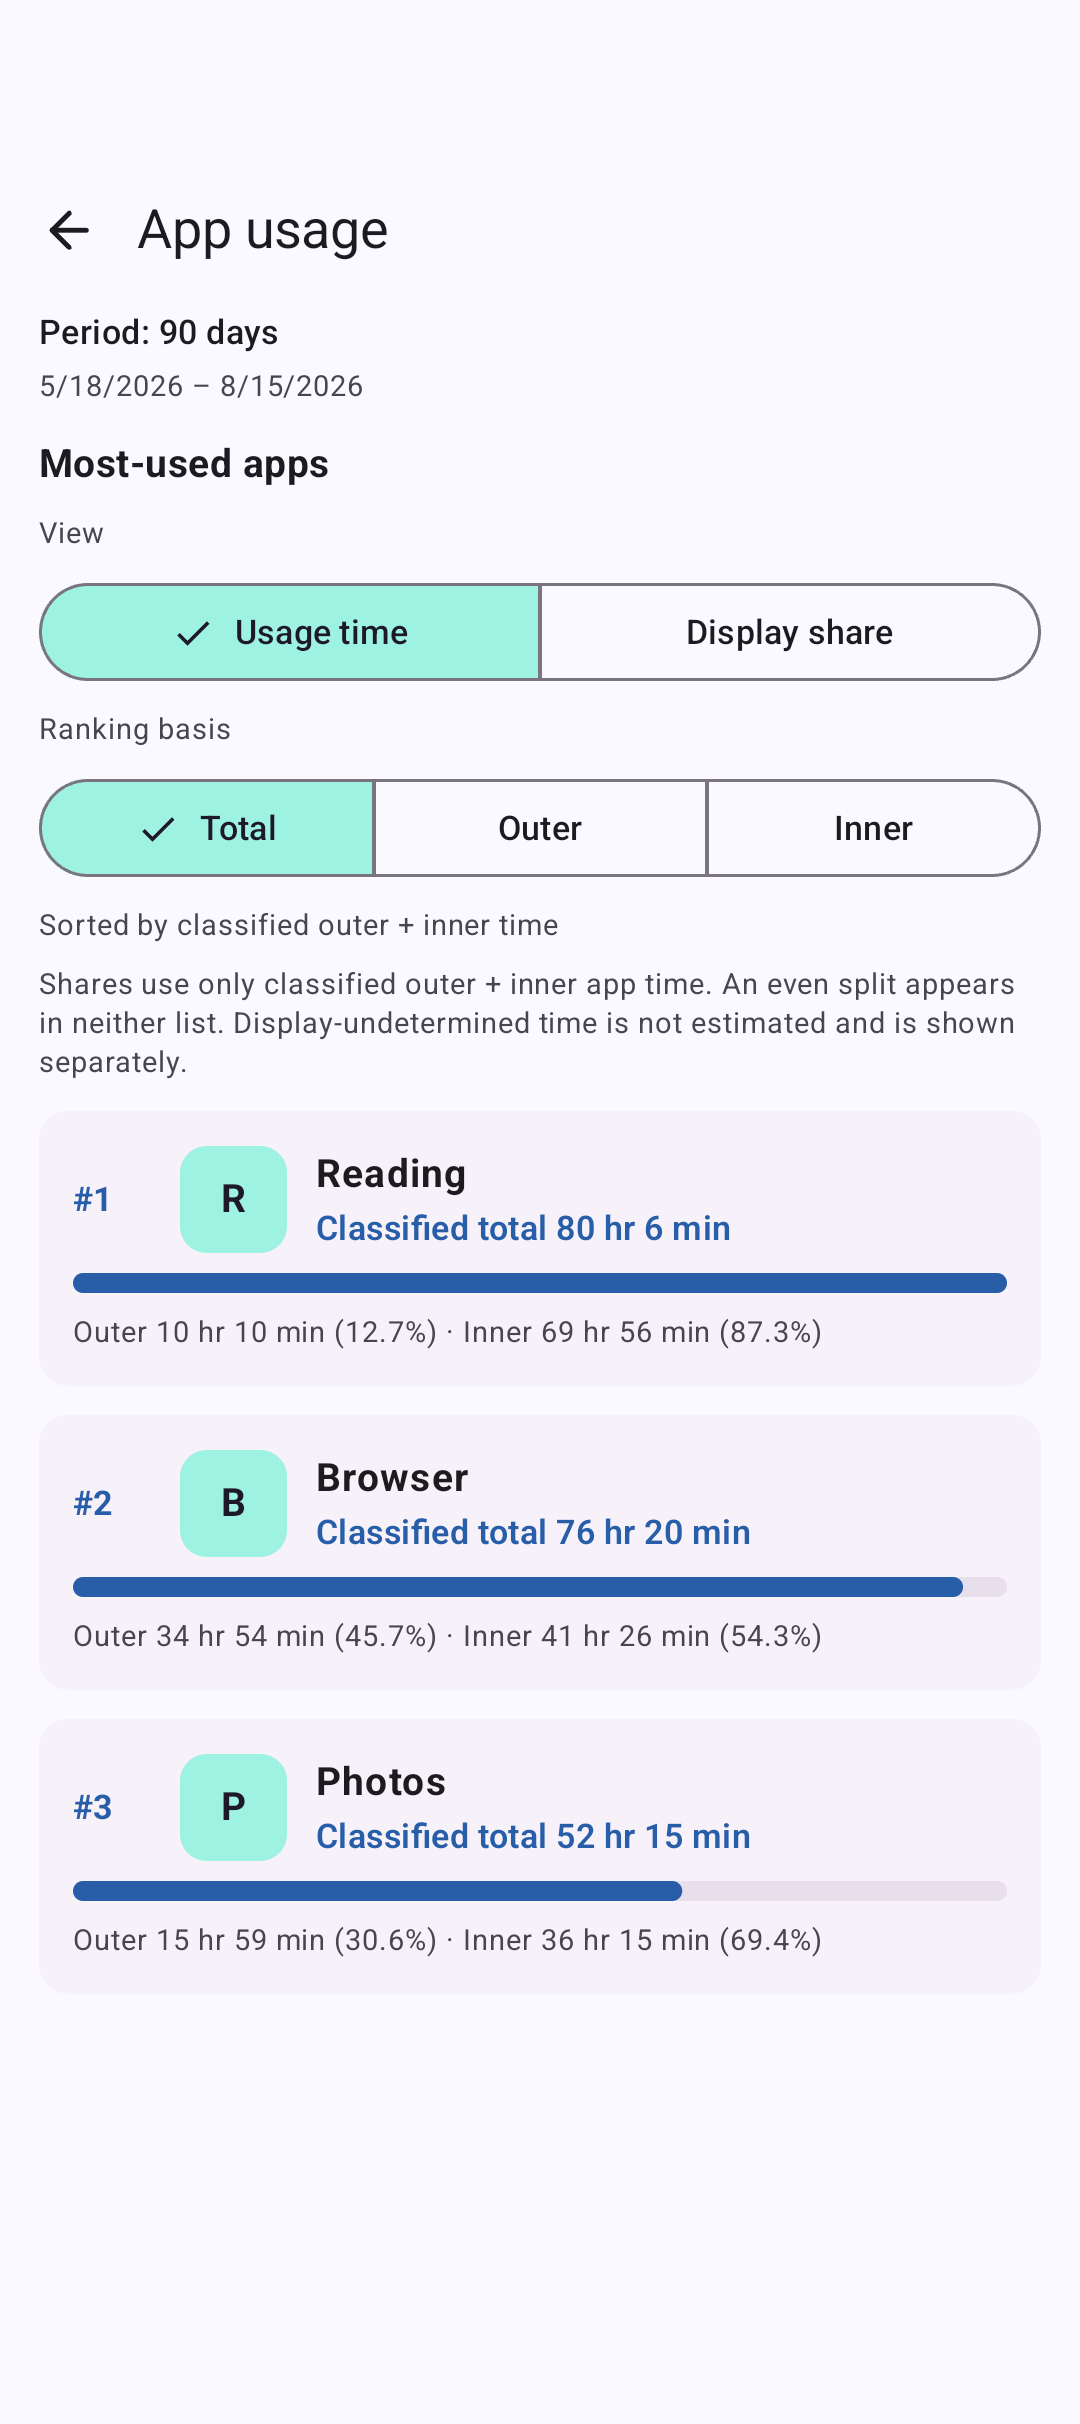
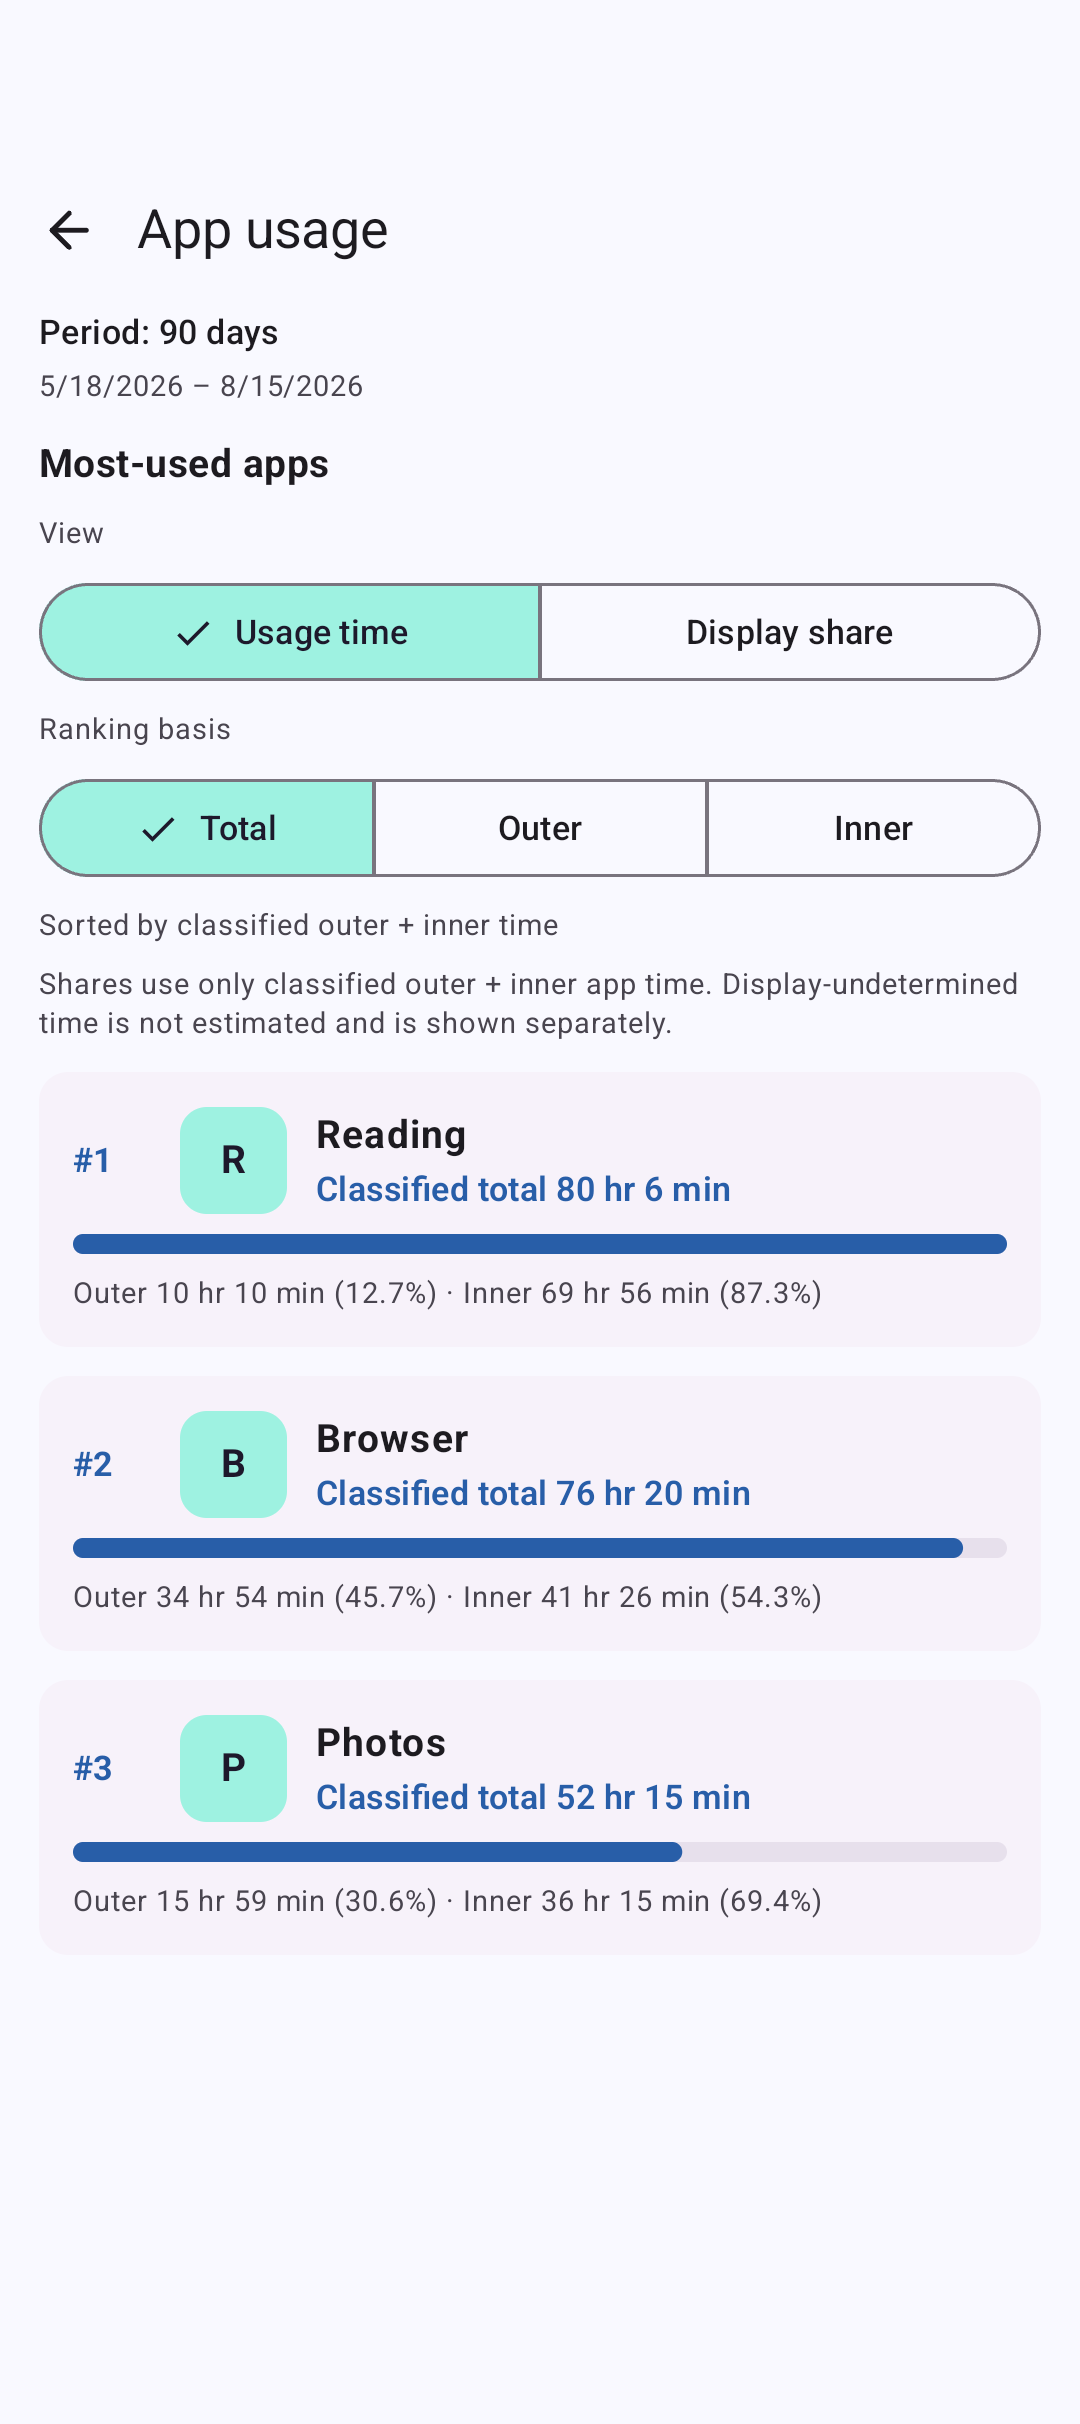
Refresh ranking screenshots after guidance correction

Changed region(s): [[0.0611, 0.4022, 0.9472, 0.8045], [0.6417, 0.4022, 0.9472, 0.4332], [0.3361, 0.4022, 0.6111, 0.4332]]

diff --git a/docs/screenshots/pr16/README.md b/docs/screenshots/pr16/README.md
@@ -4,7 +4,7 @@ These unmodified screenshots use synthetic, in-memory data from
 `StoreScreenshotCaptureTest`, with generic app names and no user usage history.
 
 - Before: main at `dc12e5b8a010cd63c660faf027be0f8f6346fc2b`.
-- After: integrated PR #16 at `f9e71e8a60911dd7085be6482b2d09effdcc0c57`.
+- After: integrated PR #16 at `074fba2a8eb392b93221a0a7685738e52af1b007`.
 - Device: `Foldlytics_PR16_Final_20260905` foldable AVD, Android API 36,
   CLOSED (state 0), 1080 × 2424 pixels, 390 dpi, font scale 1.0, awake and unlocked.
 
@@ -13,6 +13,7 @@ These unmodified screenshots use synthetic, in-memory data from
 The four total-ranking captures use the same existing 90-day synthetic dataset. The after
 view adds the Usage time / Display share selector, classified-time wording, and per-app shares;
 the ranking order and measured durations remain the same.
+The even-split exclusion note appears only in Display share, where it applies.
 
 | Locale | Before | After |
 | --- | --- | --- |
@@ -37,5 +38,10 @@ The coordinator also validated the UI on the OPENED display (state 2, 2076 × 21
 with no clipping found in either state. The eight PNGs here are the CLOSED captures; no opened
 captures are included. Synthetic UI checks do not establish real sensor accuracy: physical-device
 usage access, calibration, and hinge sensing remain unverified.
+
+Validation at the after-source: 142 JVM tests passed; lint reported zero errors and nine existing
+warnings; both APK builds passed. The full connected suite passed 82/82 on CLOSED, and direct
+instrumentation of `AppUsageScreenTest` plus `StoreScreenshotCaptureTest` passed 11/11 on OPENED.
+The coordinator reviewed the updated captures and the scoped copy fix.
 
 See [capture instructions](../../../store-assets/google-play/README.md#display-share-review-screenshots).
